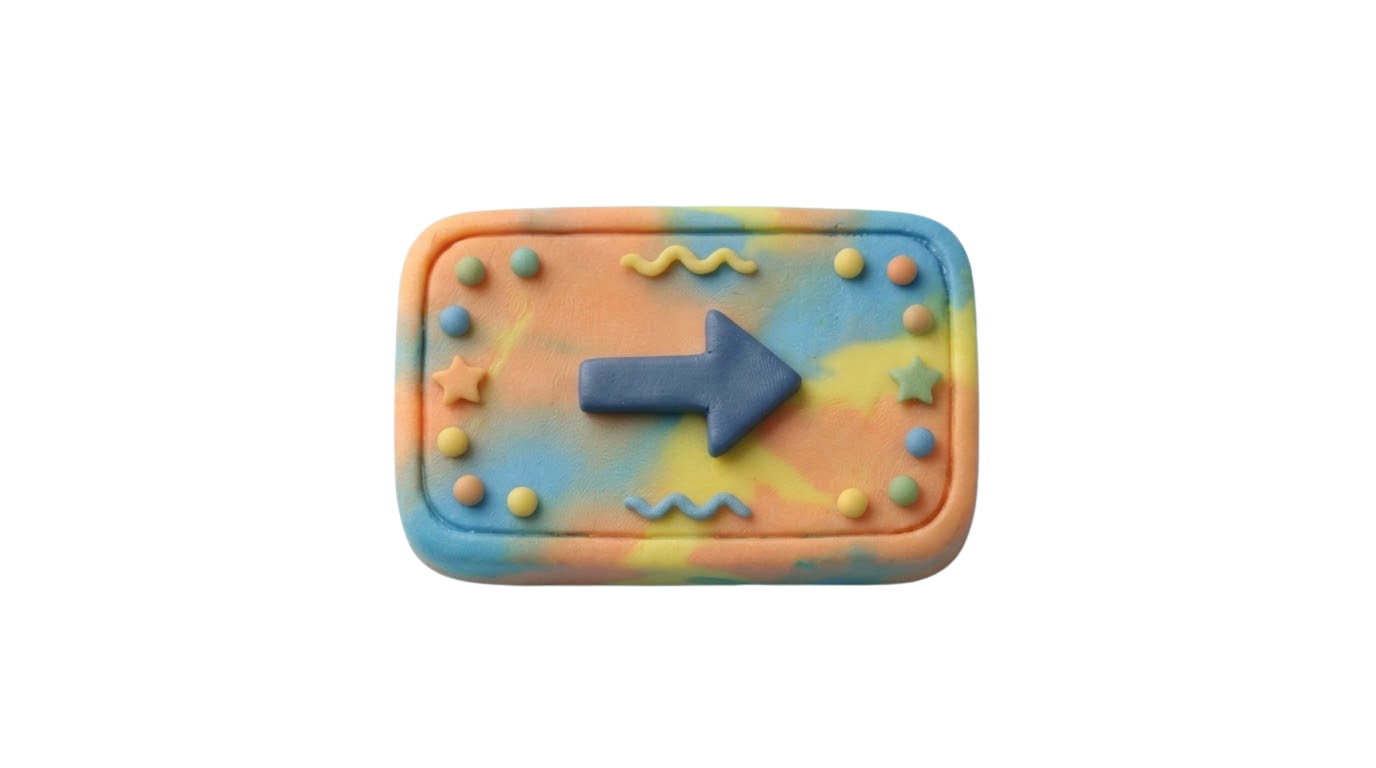
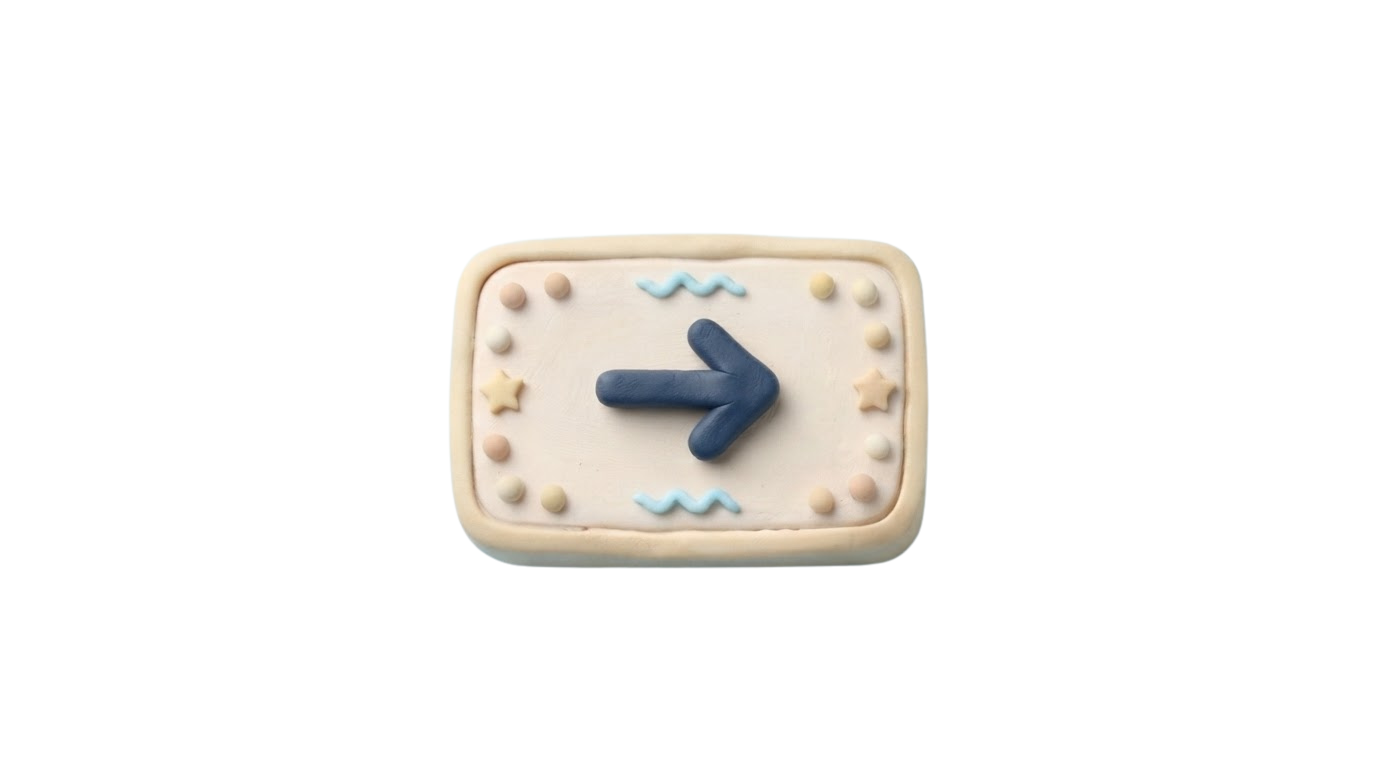
Icone mute e freccie bianche e piu grandi

Changed region(s): [[0.2812, 0.25, 0.7188, 0.7812]]

diff --git a/index.html b/index.html
@@ -204,18 +204,20 @@
     background: transparent;
     padding: 0;
     cursor: pointer;
-    height: clamp(44px, 7.5vh, 72px);
-    width: auto;
+    height: clamp(64px, 11vh, 96px);
+    width: clamp(64px, 11vh, 96px);
     display: inline-flex;
     align-items: center;
     justify-content: center;
+    overflow: visible;
     transition: transform 0.15s ease, opacity 0.2s ease, filter 0.2s ease;
   }
   .mute-icon-btn:active { transform: scale(0.92); }
   .mute-icon-btn img {
+    width: 100%;
     height: 100%;
-    width: auto;
     object-fit: contain;
+    transform: scale(1.5);
     display: block;
     filter: drop-shadow(0 4px 10px rgba(0, 0, 0, 0.26));
   }
@@ -555,16 +557,17 @@
     top: 50%;
     transform: translateY(-50%);
     z-index: 30;
-    width: clamp(48px, 11vw, 76px);
-    height: clamp(48px, 11vw, 76px);
+    width: clamp(72px, 16vw, 110px);
+    height: clamp(72px, 16vw, 110px);
     border: none;
     background: transparent;
     padding: 0;
-    font-size: 28px;
+    font-size: 32px;
     line-height: 1;
     cursor: pointer;
     display: grid;
     place-items: center;
+    overflow: visible;
     transition: opacity 0.2s ease, transform 0.15s ease;
   }
   .nav-arrow:active { transform: translateY(-50%) scale(0.9); }
@@ -572,11 +575,12 @@
     width: 100%;
     height: 100%;
     object-fit: contain;
+    transform: scale(1.6);
     display: block;
     filter: drop-shadow(0 5px 12px rgba(0, 0, 0, 0.28));
   }
-  .nav-arrow.prev { left: 8px; }
-  .nav-arrow.next { right: 8px; }
+  .nav-arrow.prev { left: 6px; }
+  .nav-arrow.next { right: 6px; }
   .nav-arrow.hidden { opacity: 0; pointer-events: none; }
 
   .floating-coin {
@@ -1222,7 +1226,7 @@ function updateMachineProgress() {
     }
     const owned = m.activePrizes.filter((p) => ownedKeys.has(p.key)).length;
     const isComplete = owned >= total;
-    countEl.textContent = isComplete ? `🏆 ${owned}/${total}` : `⭐ ${owned}/${total}`;
+    countEl.textContent = isComplete ? `🏆 ${owned}/${total}` : `${owned}/${total}`;
     countEl.classList.toggle("is-complete", isComplete);
   });
 }
